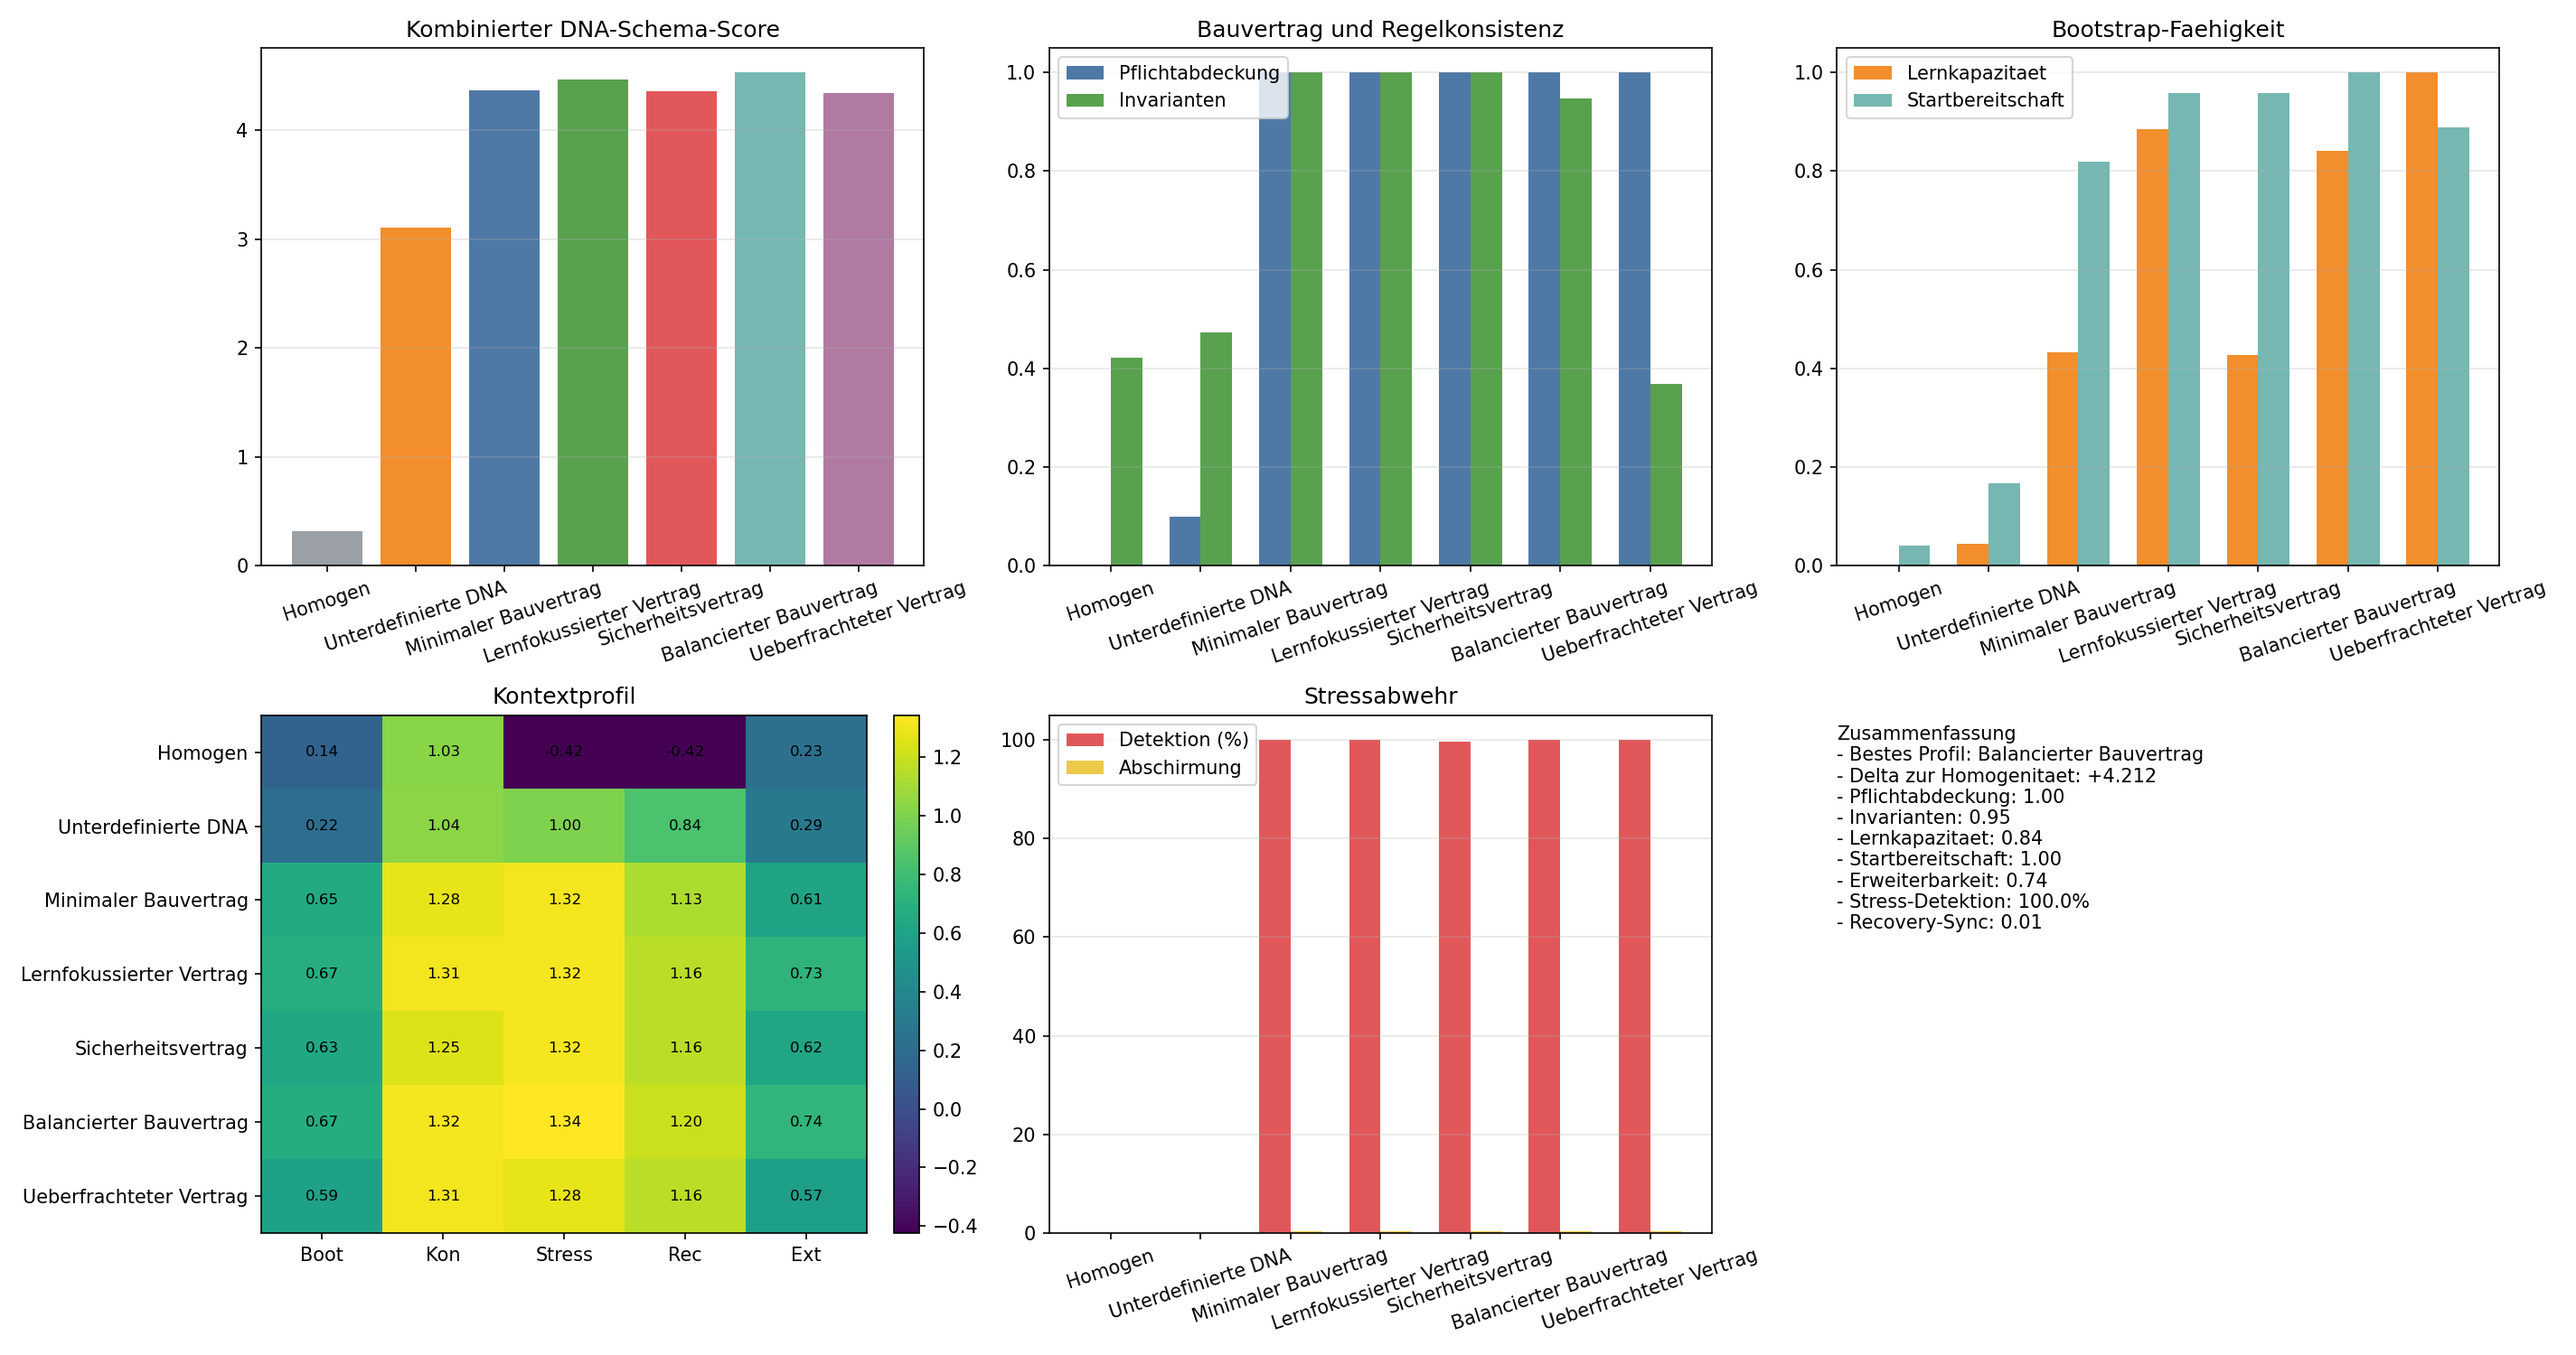
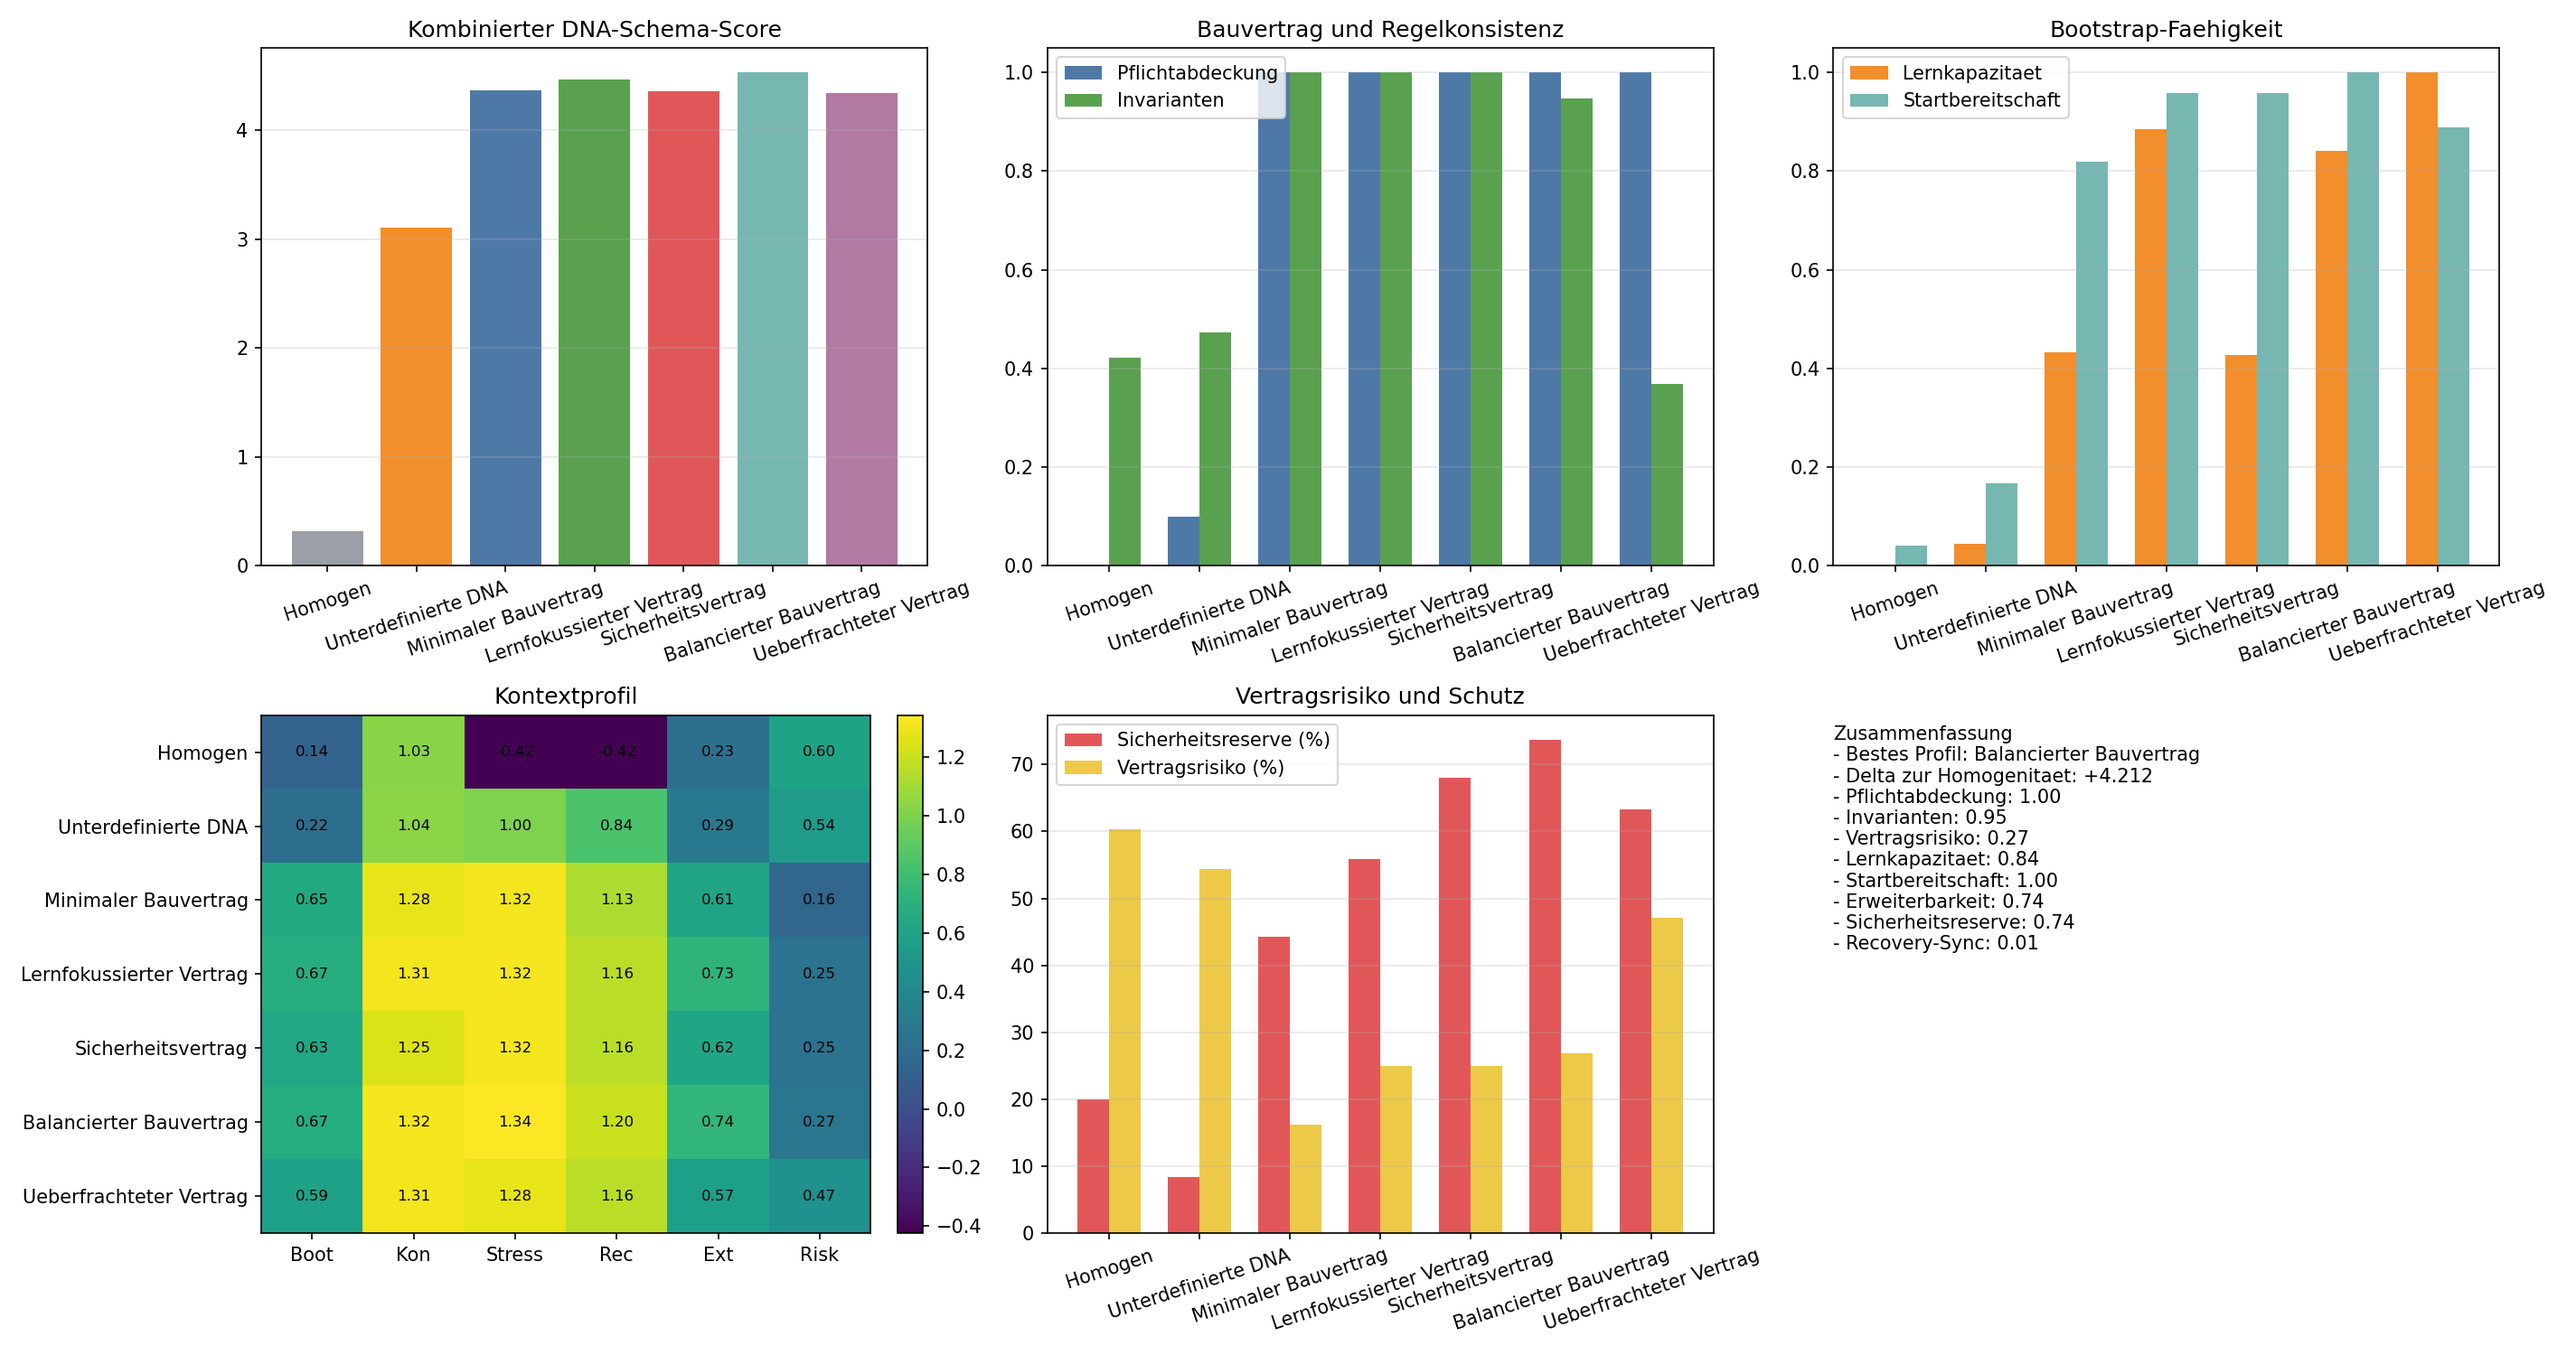
Refine DNA schema risk metrics

diff --git a/schwarm_dna_schema.py b/schwarm_dna_schema.py
@@ -557,6 +557,7 @@ def summarize_runs(runs, eintrag, context_list, agent_count):
         'safety_margin': {},
         'overload_risk': {},
         'extensibility': {},
+        'contract_risk': {},
     }
 
     for kontext in context_list:
@@ -609,6 +610,7 @@ def summarize_runs(runs, eintrag, context_list, agent_count):
         metrics['safety_margin'][name] = mittelwert([run[name]['schema_metrics']['safety_margin'] for run in runs])
         metrics['overload_risk'][name] = mittelwert([run[name]['schema_metrics']['overload_risk'] for run in runs])
         metrics['extensibility'][name] = mittelwert([run[name]['schema_metrics']['extensibility'] for run in runs])
+        metrics['contract_risk'][name] = mittelwert([run[name]['schema_metrics']['contract_risk'] for run in runs])
 
     return {
         'name': eintrag['name'],
@@ -655,8 +657,8 @@ def main():
         print(
             f"{summary['label']:<28} Score={summary['combined_score']:+.3f} | "
             f"Coverage={summary['mandatory_coverage']['bootstrap']:.2f} | "
-            f"Invarianten={summary['invariant_compliance']['bootstrap']:.2f} | "
-            f"Erweiterung={summary['extensibility']['bootstrap']:.2f}"
+            f"Vertragsrisiko={summary['contract_risk']['bootstrap']:.2f} | "
+            f"Sicherheitsreserve={summary['safety_margin']['stress']:.2f}"
         )
 
     best = max(summaries, key=lambda item: item['combined_score'])
@@ -669,8 +671,8 @@ def main():
     )
     print(
         f"Coverage {best['mandatory_coverage']['bootstrap']:.2f}, "
-        f"Invarianten {best['invariant_compliance']['bootstrap']:.2f}, "
-        f"Erweiterbarkeit {best['extensibility']['bootstrap']:.2f}"
+        f"Vertragsrisiko {best['contract_risk']['bootstrap']:.2f}, "
+        f"Sicherheitsreserve {best['safety_margin']['stress']:.2f}"
     )
 
     labels = [item['label'] for item in summaries]
@@ -734,6 +736,7 @@ def main():
                 item['context_scores']['stress'],
                 item['context_scores']['recovery'],
                 item['extensibility']['bootstrap'],
+                item['contract_risk']['bootstrap'],
             ]
             for item in summaries
         ],
@@ -741,8 +744,8 @@ def main():
     )
     heatmap = axes[1, 0].imshow(heatmap_data, cmap='viridis', aspect='auto')
     axes[1, 0].set_title('Kontextprofil')
-    axes[1, 0].set_xticks([0, 1, 2, 3, 4])
-    axes[1, 0].set_xticklabels(['Boot', 'Kon', 'Stress', 'Rec', 'Ext'])
+    axes[1, 0].set_xticks([0, 1, 2, 3, 4, 5])
+    axes[1, 0].set_xticklabels(['Boot', 'Kon', 'Stress', 'Rec', 'Ext', 'Risk'])
     axes[1, 0].set_yticks(range(len(labels)))
     axes[1, 0].set_yticklabels(labels)
     for row in range(heatmap_data.shape[0]):
@@ -752,19 +755,19 @@ def main():
 
     axes[1, 1].bar(
         x - width / 2,
-        [item['detection_rate']['stress'] * 100.0 for item in summaries],
+        [item['safety_margin']['stress'] * 100.0 for item in summaries],
         width,
-        label='Detektion (%)',
+        label='Sicherheitsreserve (%)',
         color='#e15759',
     )
     axes[1, 1].bar(
         x + width / 2,
-        [item['trust_shield_mean']['stress'] for item in summaries],
+        [item['contract_risk']['bootstrap'] * 100.0 for item in summaries],
         width,
-        label='Abschirmung',
+        label='Vertragsrisiko (%)',
         color='#edc948',
     )
-    axes[1, 1].set_title('Stressabwehr')
+    axes[1, 1].set_title('Vertragsrisiko und Schutz')
     axes[1, 1].set_xticks(x)
     axes[1, 1].set_xticklabels(labels, rotation=18)
     axes[1, 1].legend()
@@ -780,10 +783,11 @@ def main():
             f"- Delta zur Homogenitaet: {best['combined_score'] - baseline['combined_score']:+.3f}\n"
             f"- Pflichtabdeckung: {best['mandatory_coverage']['bootstrap']:.2f}\n"
             f"- Invarianten: {best['invariant_compliance']['bootstrap']:.2f}\n"
+            f"- Vertragsrisiko: {best['contract_risk']['bootstrap']:.2f}\n"
             f"- Lernkapazitaet: {best['learning_capacity']['bootstrap']:.2f}\n"
             f"- Startbereitschaft: {best['startup_readiness']['bootstrap']:.2f}\n"
             f"- Erweiterbarkeit: {best['extensibility']['bootstrap']:.2f}\n"
-            f"- Stress-Detektion: {best['detection_rate']['stress']:.1%}\n"
+            f"- Sicherheitsreserve: {best['safety_margin']['stress']:.2f}\n"
             f"- Recovery-Sync: {best['sync_strength_mean']['recovery']:.2f}"
         ),
         va='top',
